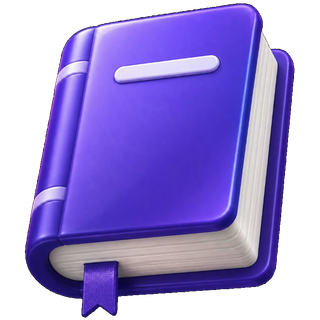
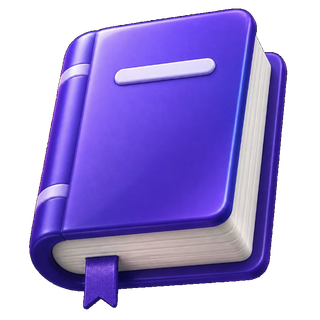
جایگزینی تصاویر Hero و آیکونهای 3D مطابق طرح مرجع

Changed region(s): [[0.0625, 0.0, 0.9375, 1.0], [0.3438, 0.1562, 0.6875, 0.2812]]

diff --git a/site/src/components/public/home/home-categories-section.tsx b/site/src/components/public/home/home-categories-section.tsx
@@ -3,14 +3,14 @@ import { PublicContainer } from "@/components/ui/public/v2/public-container";
 import { PublicSection } from "@/components/ui/public/v2/public-section";
 
 export const HOME_CONTENT_CATEGORIES = [
-  { id: "ai", label: "AI Coding", href: "/search?q=AI%20Coding" },
-  { id: "dotnet", label: ".NET", href: "/search?q=.NET" },
-  { id: "frontend", label: "Frontend", href: "/search?q=Frontend" },
-  { id: "backend", label: "Backend", href: "/search?q=Backend" },
-  { id: "devops", label: "DevOps", href: "/search?q=DevOps" },
-  { id: "mobile", label: "Mobile", href: "/search?q=Mobile" },
-  { id: "database", label: "Database", href: "/search?q=Database" },
-  { id: "security", label: "Security", href: "/search?q=Security" },
+  { id: "ai", label: "AI Coding", href: "/search?q=AI%20Coding", icon: "/home/icon-ai.png" },
+  { id: "dotnet", label: ".NET", href: "/search?q=.NET", icon: "/home/icon-dotnet.png" },
+  { id: "frontend", label: "Frontend", href: "/search?q=Frontend", icon: "/home/icon-frontend.png" },
+  { id: "backend", label: "Backend", href: "/search?q=Backend", icon: "/home/icon-backend.png" },
+  { id: "devops", label: "DevOps", href: "/search?q=DevOps", icon: "/home/icon-devops.png" },
+  { id: "mobile", label: "Mobile", href: "/search?q=Mobile", icon: "/home/icon-mobile.png" },
+  { id: "database", label: "Database", href: "/search?q=Database", icon: "/home/icon-database.png" },
+  { id: "security", label: "Security", href: "/search?q=Security", icon: "/home/icon-security.png" },
 ] as const;
 
 /** Content category chips / cards grid. */
@@ -40,10 +40,17 @@ export function HomeCategoriesSection() {
                 className="focus-ring flex min-h-[88px] flex-col items-center justify-center gap-2 rounded-2xl border border-white/[0.08] bg-[#0B1224] px-3 py-4 text-center no-underline transition hover:-translate-y-1 hover:border-[rgba(124,58,237,0.4)] hover:shadow-[0_0_28px_rgba(124,58,237,0.2)]"
               >
                 <span
-                  className="flex h-10 w-10 items-center justify-center rounded-xl bg-[rgba(124,58,237,0.16)] text-[#C4B5FD]"
+                  className="flex h-11 w-11 items-center justify-center drop-shadow-[0_8px_18px_rgba(124,58,237,0.35)]"
                   aria-hidden
                 >
-                  <CategoryIcon id={category.id} />
+                  <img
+                    src={category.icon}
+                    alt=""
+                    width={44}
+                    height={44}
+                    decoding="async"
+                    className="h-11 w-11 object-contain"
+                  />
                 </span>
                 <span className="text-[13px] font-bold text-white">{category.label}</span>
               </Link>
@@ -52,44 +59,5 @@ export function HomeCategoriesSection() {
         </ul>
       </PublicContainer>
     </PublicSection>
-  );
-}
-
-function CategoryIcon({ id }: { id: string }) {
-  const common = {
-    width: 18,
-    height: 18,
-    viewBox: "0 0 24 24",
-    fill: "none",
-    stroke: "currentColor",
-    strokeWidth: 1.7,
-  } as const;
-
-  if (id === "ai") {
-    return (
-      <svg {...common} aria-hidden>
-        <path d="M12 3 13.8 8.2 19 10 13.8 11.8 12 17 10.2 11.8 5 10 10.2 8.2 12 3Z" />
-      </svg>
-    );
-  }
-  if (id === "frontend" || id === "mobile") {
-    return (
-      <svg {...common} aria-hidden>
-        <rect x="4" y="5" width="16" height="12" rx="2" />
-        <path d="M8 21h8" />
-      </svg>
-    );
-  }
-  if (id === "security") {
-    return (
-      <svg {...common} aria-hidden>
-        <path d="M12 3 19 6v5c0 5-3.2 8.2-7 9-3.8-.8-7-4-7-9V6l7-3Z" />
-      </svg>
-    );
-  }
-  return (
-    <svg {...common} aria-hidden>
-      <path d="M4 7h16M4 12h16M4 17h10" />
-    </svg>
   );
 }

diff --git a/site/src/components/public/home/home-platform-sections.test.tsx b/site/src/components/public/home/home-platform-sections.test.tsx
@@ -41,6 +41,8 @@ describe("homepage platform sections", () => {
     expect(html).toContain("Prompt Lab");
     expect(html).toContain("/toolbox");
     expect(html).toContain("/prompt-lab");
+    expect(html).toContain("/home/icon-prompt-lab.png");
+    expect(html).toContain("/home/icon-jwt.png");
   });
 
   it("renders eight content categories", () => {
@@ -48,6 +50,7 @@ describe("homepage platform sections", () => {
     expect(HOME_CONTENT_CATEGORIES).toHaveLength(8);
     for (const category of HOME_CONTENT_CATEGORIES) {
       expect(html).toContain(category.label);
+      expect(html).toContain(category.icon);
     }
   });
 

diff --git a/site/src/lib/public/home-covers.ts b/site/src/lib/public/home-covers.ts
@@ -3,11 +3,11 @@
 export const HOME_COVERS = {
   hero: "/home/hero-workspace.webp",
   newsletter: "/home/newsletter.svg",
-  architecture: "/home/icon-architect.png",
-  ai: "/home/cover-ai.svg",
-  backend: "/home/icon-db.png",
-  frontend: "/home/icon-code.png",
-  devops: "/home/cover-devops.svg",
+  architecture: "/home/icon-dotnet.png",
+  ai: "/home/icon-ai.png",
+  backend: "/home/icon-backend.png",
+  frontend: "/home/icon-frontend.png",
+  devops: "/home/icon-devops.png",
   article: "/home/icon-learning.png",
   news: "/home/icon-news.png",
   tools: "/home/icon-tools.png",

diff --git a/site/src/lib/public/prompt-lab-catalog.test.ts b/site/src/lib/public/prompt-lab-catalog.test.ts
@@ -27,7 +27,7 @@ describe("prompt lab catalog", () => {
           title: "RAG",
           slug: "rag-query-rewrite",
           description: "بازنویسی پرسش",
-          coverImage: "/home/cover-ai.svg",
+          coverImage: "/home/icon-ai.png",
           mediaType: "Text",
           category: { id: "c", name: "Coding", slug: "coding" },
           aiModel: { id: "m", name: "Gemini", slug: "gemini", provider: "Google" },

diff --git a/site/src/components/public/home/home-hub-section.tsx b/site/src/components/public/home/home-hub-section.tsx
@@ -100,7 +100,7 @@ export function HomeHubSection({ tools = [] }: HomeHubSectionProps) {
               aria-hidden
             />
             <img
-              src="/home/icon-architect.png"
+              src="/home/icon-prompt-lab.png"
               alt=""
               width={128}
               height={128}
